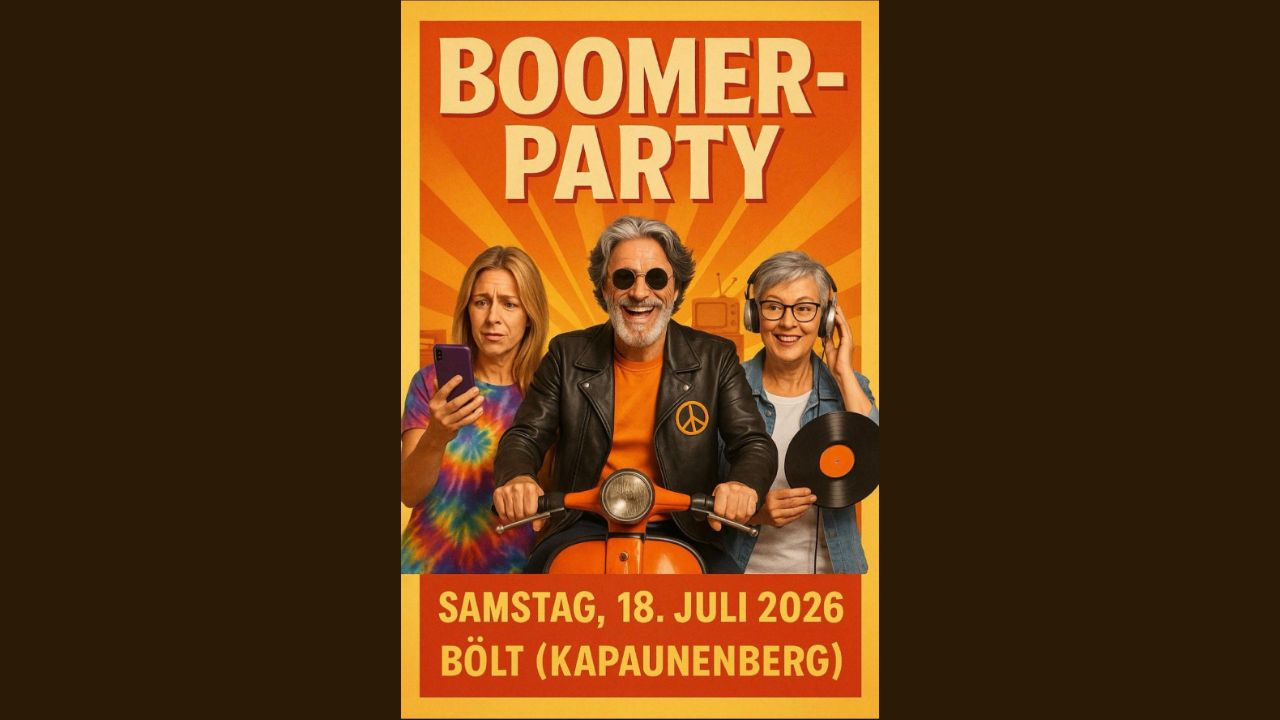
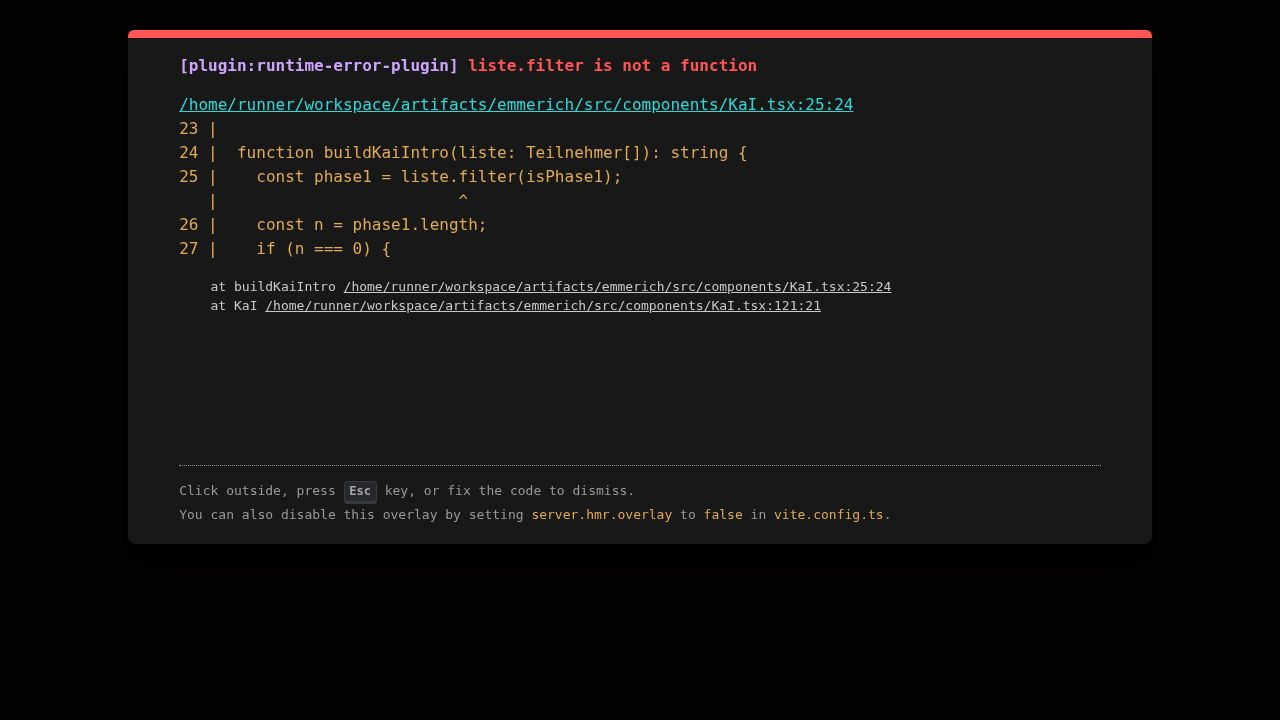
fix: separate Phase-1/Phase-2 stats in Teilnehmer counter (task #152)
Problem: GET /api/interesse returned a flat mixed array of Phase-1
interessenten + Phase-2 anmeldungen with song wishes. Teilnehmer.tsx
used entries.length for "X Boomer haben" (counted both phases) and
summed PERSONEN_COUNT on all entries (Phase-2 entries have no personen
field, fell back to ?? 1 ignoring actual group sizes).

Changes:
- artifacts/api-server/src/routes/interesse.ts:
  - GET /api/interesse now returns { stats: { boomer, personen }, entries }
  - stats are computed from Phase-1 (interessenten table) only:
    boomer = rows.length, personen = sum of PERSONEN_COUNT mapping
  - entries still contains mixed Phase-1 + Phase-2 song wishes (sorted)
  - PERSONEN_COUNT map moved to server (was duplicated in frontend)
  - Both DB queries run in parallel via Promise.all

- artifacts/emmerich/src/components/Teilnehmer.tsx:
  - Added InteresseStats + InteresseResponse types for new API shape
  - fetch parses { stats, entries } instead of flat array
  - boomerCount and totalPersonen derive from stats (Phase-1 only)
  - Removed frontend PERSONEN_COUNT map (no longer needed)
  - Early return condition uses stats.boomer === 0 instead of entries.length
  - persons display for entries gracefully handles null personen (Phase-2)

- lib/api-spec/openapi.yaml:
  - Added GET /interesse endpoint with InteresseResponse schema
  - Added InteresseStats, InteresseEntry, InteresseResponse schemas
  - Ran codegen: api-client-react + api-zod updated
[…]

diff --git a/artifacts/api-server/src/routes/interesse.ts b/artifacts/api-server/src/routes/interesse.ts
@@ -51,30 +51,45 @@ router.get("/interessenten/count", async (_req, res) => {
   res.json({ count: result[0]?.count ?? 0 });
 });
 
-router.get("/interesse", async (_req, res) => {
-  const rows = await db
-    .select({
-      id: interessenten.id,
-      name: interessenten.name,
-      personen: interessenten.personen,
-      statement: interessenten.statement,
-      song: interessenten.song,
-      createdAt: interessenten.createdAt,
-    })
-    .from(interessenten)
-    .orderBy(desc(interessenten.createdAt));
+const PERSONEN_COUNT: Record<string, number> = {
+  "Nur ich": 1,
+  "Wir zwei": 2,
+  "Wir drei": 3,
+  "Vier auf einen Streich": 4,
+  "Fünf oder mehr": 5,
+};
 
-  const anmeldungRows = await db
-    .select({
-      id: anmeldungenTable.id,
-      email: anmeldungenTable.email,
-      personen: anmeldungenTable.personen,
-      song: anmeldungenTable.song,
-      createdAt: anmeldungenTable.created_at,
-    })
-    .from(anmeldungenTable)
-    .where(isNotNull(anmeldungenTable.song))
-    .orderBy(desc(anmeldungenTable.created_at));
+router.get("/interesse", async (_req, res) => {
+  const [rows, anmeldungRows] = await Promise.all([
+    db
+      .select({
+        id: interessenten.id,
+        name: interessenten.name,
+        personen: interessenten.personen,
+        statement: interessenten.statement,
+        song: interessenten.song,
+        createdAt: interessenten.createdAt,
+      })
+      .from(interessenten)
+      .orderBy(desc(interessenten.createdAt)),
+    db
+      .select({
+        id: anmeldungenTable.id,
+        email: anmeldungenTable.email,
+        personen: anmeldungenTable.personen,
+        song: anmeldungenTable.song,
+        createdAt: anmeldungenTable.created_at,
+      })
+      .from(anmeldungenTable)
+      .where(isNotNull(anmeldungenTable.song))
+      .orderBy(desc(anmeldungenTable.created_at)),
+  ]);
+
+  const phase1Boomer = rows.length;
+  const phase1Personen = rows.reduce(
+    (sum, r) => sum + (PERSONEN_COUNT[r.personen ?? ""] ?? 1),
+    0,
+  );
 
   const anmeldungWishes = anmeldungRows
     .filter((r) => r.song && r.song.trim() !== "")
@@ -89,7 +104,7 @@ router.get("/interesse", async (_req, res) => {
       };
     });
 
-  const allRows = [
+  const entries = [
     ...rows,
     ...anmeldungWishes,
   ].sort((a, b) => {
@@ -98,7 +113,10 @@ router.get("/interesse", async (_req, res) => {
     return bTime - aTime;
   });
 
-  res.json(allRows);
+  res.json({
+    stats: { boomer: phase1Boomer, personen: phase1Personen },
+    entries,
+  });
 });
 
 export default router;

diff --git a/artifacts/emmerich/src/components/Teilnehmer.tsx b/artifacts/emmerich/src/components/Teilnehmer.tsx
@@ -2,12 +2,22 @@ import { useState, useEffect } from "react";
 import { toInitials } from "../utils/toInitials";
 
 type Entry = {
-  id: number;
+  id: string | number;
   name: string;
-  personen: string;
-  song: string | null;
-  statement: string | null;
-  createdAt: string | null;
+  personen?: string | null;
+  song?: string | null;
+  statement?: string | null;
+  createdAt?: string | null;
+};
+
+type InteresseStats = {
+  boomer: number;
+  personen: number;
+};
+
+type InteresseResponse = {
+  stats: InteresseStats;
+  entries: Entry[];
 };
 
 const PERSONEN_SHORT: Record<string, string> = {
@@ -18,11 +28,6 @@ const PERSONEN_SHORT: Record<string, string> = {
   "Fünf oder mehr":       "5+ Personen",
 };
 
-const PERSONEN_COUNT: Record<string, number> = {
-  "Nur ich": 1, "Wir zwei": 2, "Wir drei": 3,
-  "Vier auf einen Streich": 4, "Fünf oder mehr": 5,
-};
-
 
 interface TeilnehmerProps {
   refreshKey?: number;
@@ -31,13 +36,18 @@ interface TeilnehmerProps {
 
 export default function Teilnehmer({ refreshKey = 0 }: TeilnehmerProps) {
   const [entries, setEntries] = useState<Entry[]>([]);
+  const [stats, setStats]     = useState<InteresseStats>({ boomer: 0, personen: 0 });
   const [loaded, setLoaded]   = useState(false);
   const [showAll, setShowAll] = useState(false);
 
   const fetchEntries = () => {
     fetch("/api/interesse", { cache: "no-store" })
       .then((r) => r.json())
-      .then((data: Entry[]) => { setEntries(data); setLoaded(true); })
+      .then((data: InteresseResponse) => {
+        setStats(data.stats);
+        setEntries(data.entries);
+        setLoaded(true);
+      })
       .catch(() => setLoaded(true));
   };
 
@@ -49,11 +59,10 @@ export default function Teilnehmer({ refreshKey = 0 }: TeilnehmerProps) {
 
   useEffect(() => { if (refreshKey > 0) fetchEntries(); }, [refreshKey]);
 
-  if (!loaded || entries.length === 0) return null;
+  if (!loaded || stats.boomer === 0) return null;
 
-  const totalPersonen = entries.reduce(
-    (sum, e) => sum + (PERSONEN_COUNT[e.personen] ?? 1), 0
-  );
+  const totalPersonen = stats.personen;
+  const boomerCount   = stats.boomer;
 
   const SHOW_LIMIT = 8;
   const visible = showAll ? entries : entries.slice(0, SHOW_LIMIT);
@@ -91,11 +100,11 @@ export default function Teilnehmer({ refreshKey = 0 }: TeilnehmerProps) {
 
       <div className="promo-hero">
         <span className="promo-label">Interesse bekundet</span>
-        {totalPersonen > entries.length ? (
+        {totalPersonen > boomerCount ? (
           <div className="promo-count-row">
             <div className="promo-stat">
-              <span className="promo-count promo-count--amber">{entries.length}</span>
-              <span className="promo-count-label">{entries.length === 1 ? "Boomer hat" : "Boomer haben"}</span>
+              <span className="promo-count promo-count--amber">{boomerCount}</span>
+              <span className="promo-count-label">{boomerCount === 1 ? "Boomer hat" : "Boomer haben"}</span>
             </div>
             <div className="promo-stat">
               <span className="promo-count promo-count--warm">{totalPersonen}</span>
@@ -105,9 +114,9 @@ export default function Teilnehmer({ refreshKey = 0 }: TeilnehmerProps) {
         ) : (
           <div className="promo-count-row">
             <div className="promo-stat">
-              <span className="promo-count promo-count--amber">{entries.length}</span>
+              <span className="promo-count promo-count--amber">{boomerCount}</span>
               <span className="promo-count-label">
-                {entries.length === 1 ? "Boomer hat sich gemeldet" : "Boomer haben Interesse bekundet"}
+                {boomerCount === 1 ? "Boomer hat sich gemeldet" : "Boomer haben Interesse bekundet"}
               </span>
             </div>
           </div>
@@ -116,7 +125,7 @@ export default function Teilnehmer({ refreshKey = 0 }: TeilnehmerProps) {
 
       <div className="tn-list">
         {visible.map((e) => {
-          const persons  = PERSONEN_SHORT[e.personen] ?? "1 Person";
+          const persons  = e.personen ? (PERSONEN_SHORT[e.personen] ?? e.personen) : null;
           const hasStmt  = !!e.statement;
           const hasSong  = !!e.song;
 